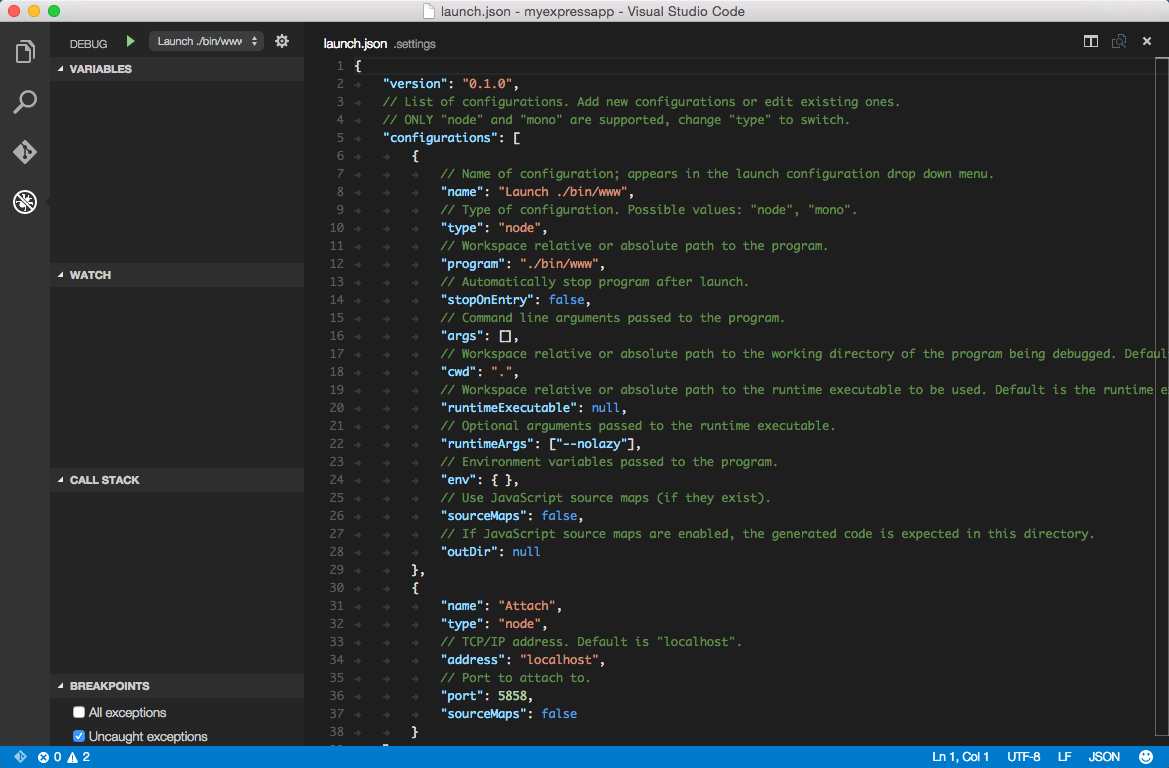
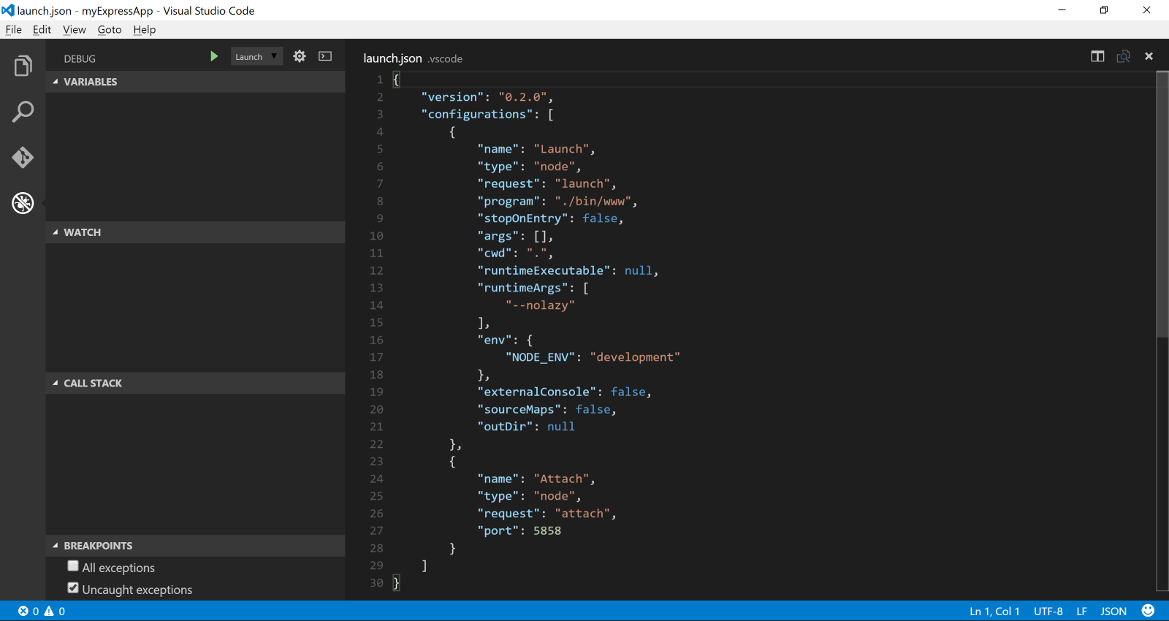
Update launch.json screenshot and instructions

diff --git a/docs/runtimes/nodejs.md b/docs/runtimes/nodejs.md
@@ -108,11 +108,11 @@ In order to run and debug your Node application from within VS Code, you need to
 
 ![Your first Node Express App](images/nodejs/debugicon.png)
 
-Click on the Configure gear icon at the top of the Debug view to create a default `launch.json` file. This configuration file lets you specify how to start the application, what arguments to pass in, the working directory, and more. When the file is first created VS Code will look in `package.json` for a `start` script and will use that value as the `program` (which in this case is `./bin/www`) for the `Launch ./bin/www` configuration. A second `Attach` configuration is also created to show you how to attach to a running Node application.
+Click on the Configure gear icon at the top of the Debug view to create a default `launch.json` file; and, select "Node.js" as the Debug Environment. This configuration file lets you specify how to start the application, what arguments to pass in, the working directory, and more. When the file is first created, VS Code will look in `package.json` for a `start` script and will use that value as the `program` (which in this case is `./bin/www`) for the `Launch` configuration. A second `Attach` configuration is also created to show you how to attach to a running Node application.
 
 ![Your first Node Express App](images/nodejs/launchjson.png)
 
-Take the defaults for everything else. If you do not have [Auto Save](/docs/editor/codebasics.md#saveauto-save) on, save the file by pressing `kb(workbench.action.files.save)`, and make sure `Launch ./bin/www` is selected in the configuration dropdown at the top of the Debug view. Open `app.js` and set a breakpoint on the line of code we wrote earlier `var msg = 'hello world';` by clicking in the gutter to the left of the line number. Press `kb(workbench.action.debug.start)` to start debugging the application. VS Code will start the server in a new terminal and hit the breakpoint we set. From there you can inspect variables, create watches, and step through your code.
+Take the defaults for everything else. If you do not have [Auto Save](/docs/editor/codebasics.md#saveauto-save) on, save the file by pressing `kb(workbench.action.files.save)`, and make sure `Launch` is selected in the configuration dropdown at the top of the Debug view. Open `app.js` and set a breakpoint on the line of code we wrote earlier `var msg = 'hello world';` by clicking in the gutter to the left of the line number. Press `kb(workbench.action.debug.start)` to start debugging the application. VS Code will start the server in a new terminal and hit the breakpoint we set. From there you can inspect variables, create watches, and step through your code.
 
 ![Your first Node Express App](images/nodejs/debugsession.png)
 
